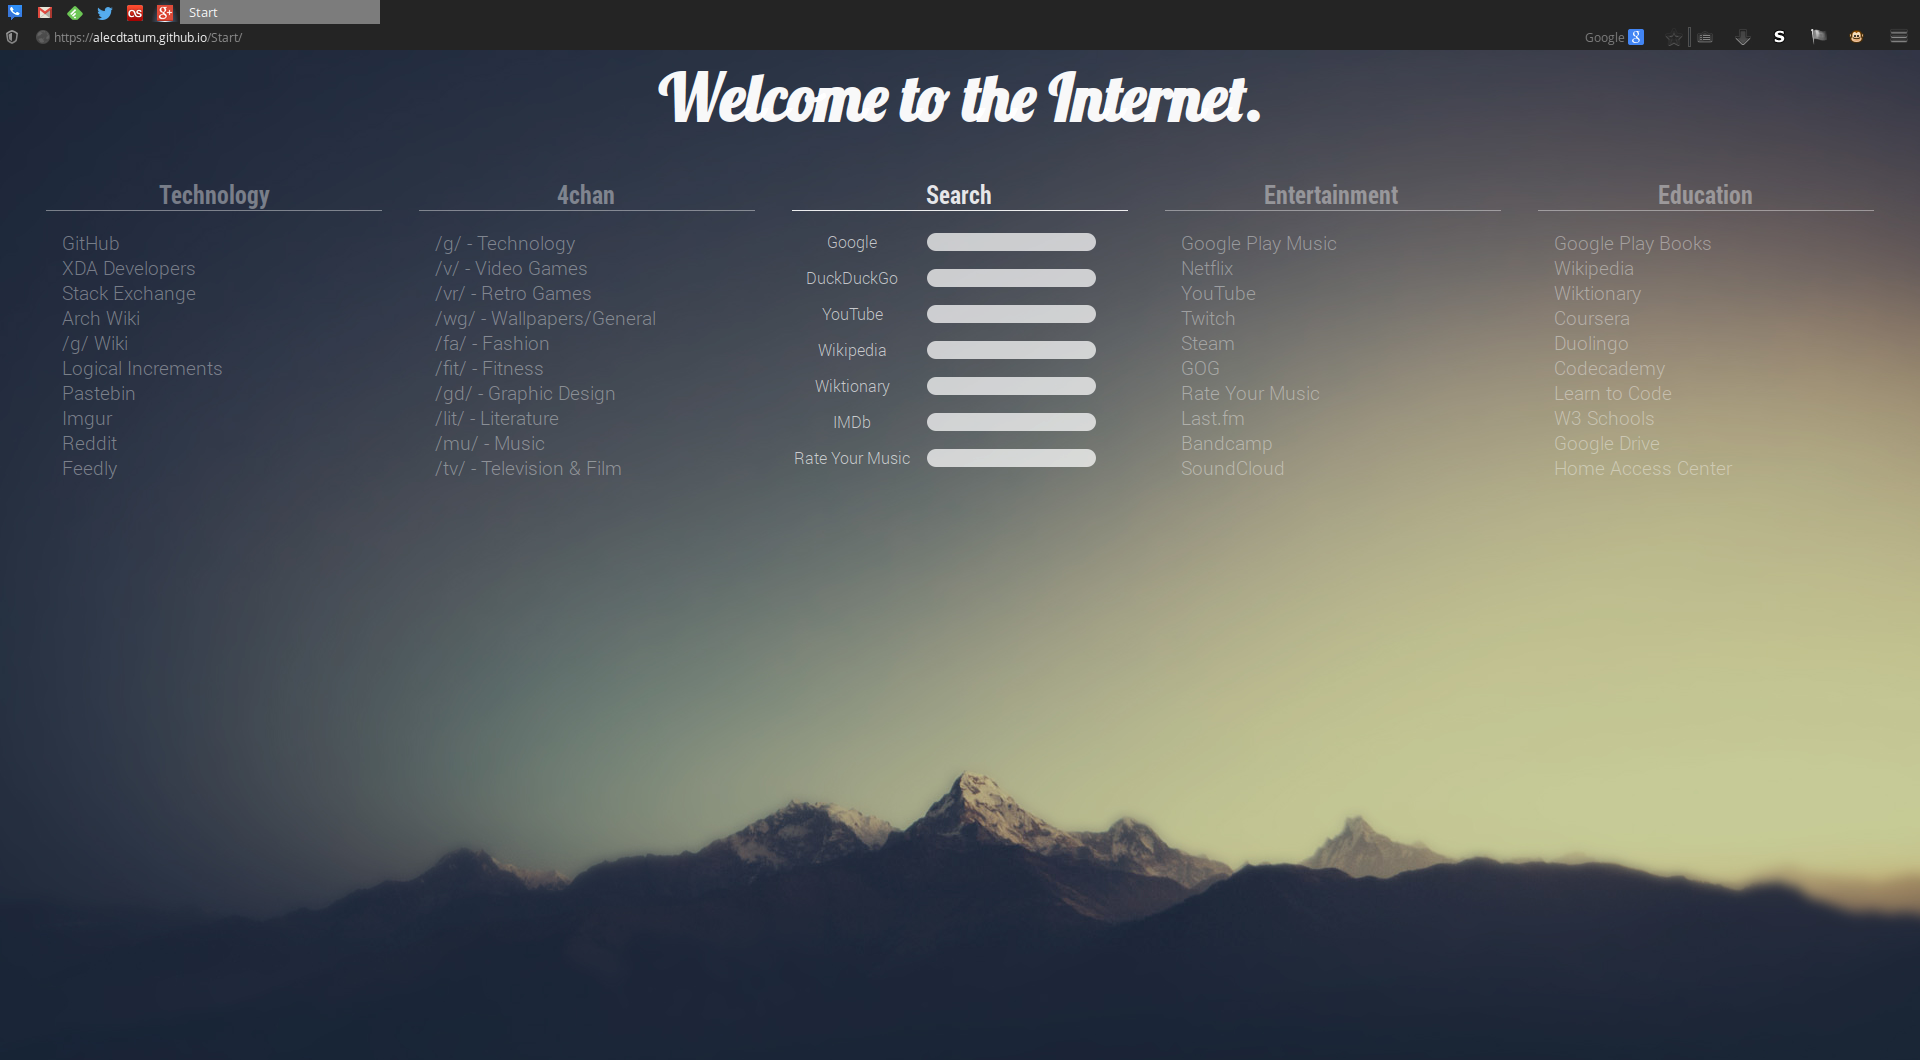
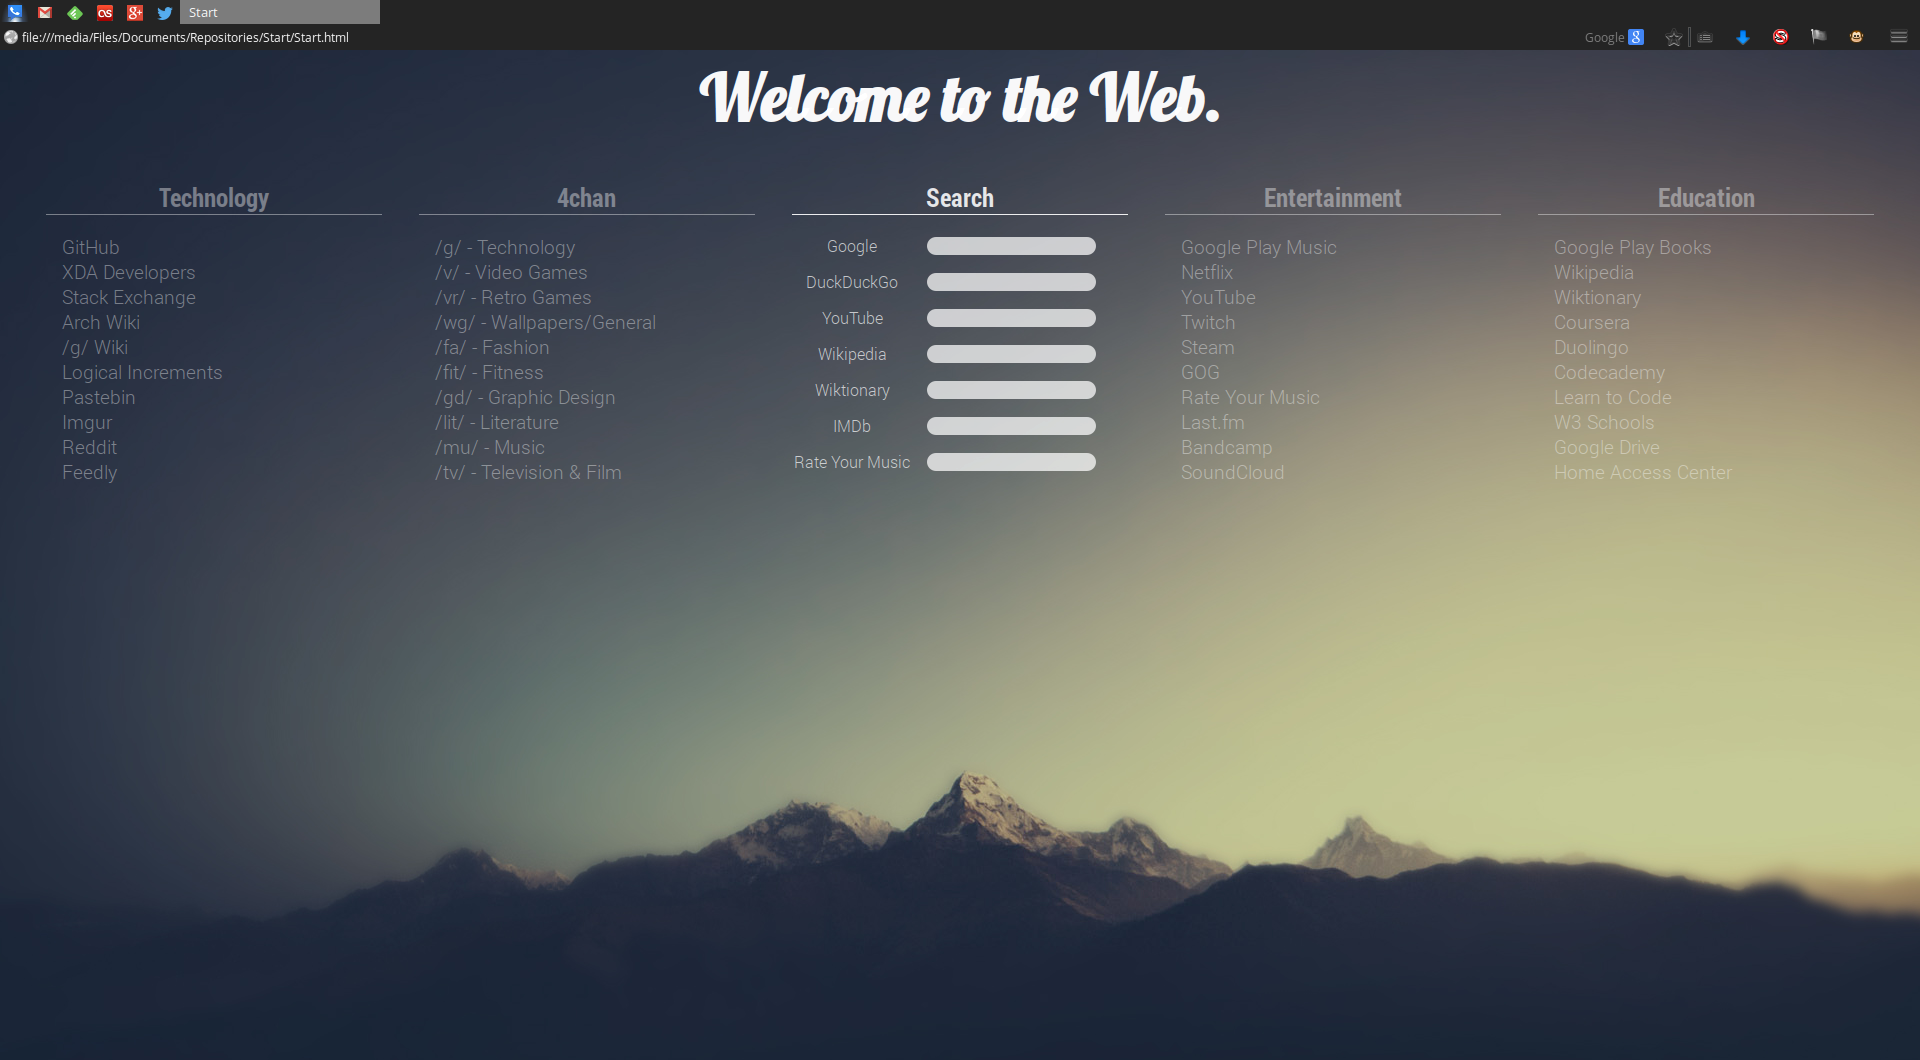
Updated screenshot

diff --git a/Start.html b/Start.html
@@ -8,7 +8,7 @@ Credit goes to Twily from http://twily.info for the design idea
 	<title>Start</title>
 </head>
 <body>
-	<h1>Welcome to the Internet.</h1>
+	<h1>Welcome to the Web.</h1>
 <div id="boxes">
 	<div class="box"><h4>Technology</h4>
 		<ul>
